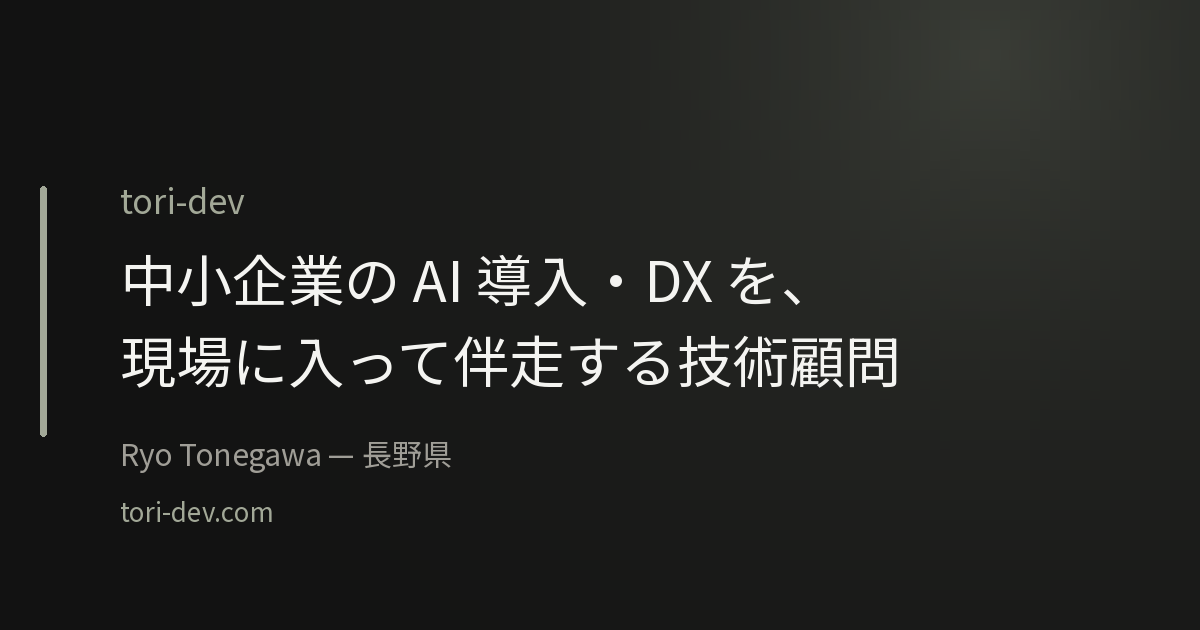
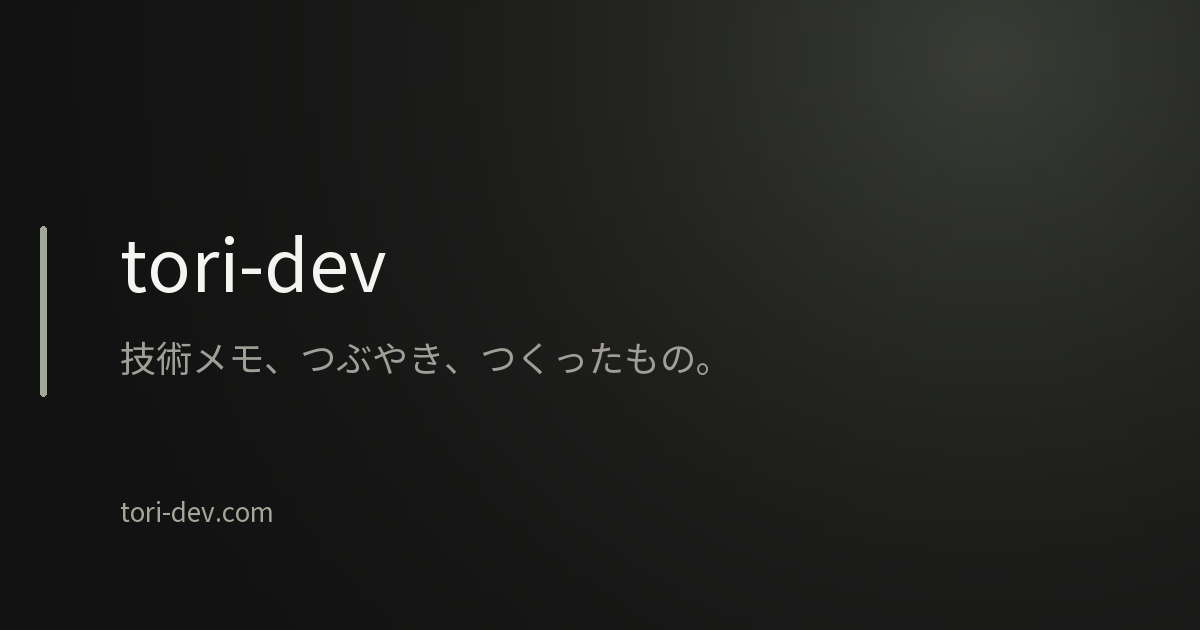
fix: レビュー指摘を反映し記事・OG画像・llms.txt からも営業文言と居住地を外す
- 記事末尾の著者欄から居住地を外し、リンクを About / Contact に
- 既定 OG 画像（トップの共有カード）を氏名・居住地・営業コピーなしで再生成
- llms.txt のサイト説明を個人サイト向けに更新
- About の連絡リンク文言を「連絡フォーム」にし、見出しとパンくずの表記を他ページと揃える
- 使われなくなった advisoryCtaLabel / advisoryPath を削除

diff --git a/pages/posts/[...slug].vue b/pages/posts/[...slug].vue
@@ -89,10 +89,10 @@
                 <aside class="mt-16 rounded-lg border border-gray-200 p-5 dark:border-[#333333] dark:bg-[#1a1a1a]">
                     <p class="text-xs uppercase tracking-wider text-gray-500 dark:text-gray-400">この記事を書いた人</p>
                     <p class="mt-2 font-display text-lg font-semibold text-gray-900 dark:text-white">{{ authorName }}</p>
-                    <p class="mt-1 text-sm text-gray-600 dark:text-gray-300">{{ authorJobTitle }}（{{ authorArea }}）</p>
+                    <p class="mt-1 text-sm text-gray-600 dark:text-gray-300">{{ authorJobTitle }}</p>
                     <div class="mt-4 flex flex-wrap gap-4 text-sm">
-                        <NuxtLink to="/about" class="text-[#A2A897] hover:underline">プロフィール</NuxtLink>
-                        <NuxtLink to="/contact" class="text-[#A2A897] hover:underline">ご相談・お問い合わせ</NuxtLink>
+                        <NuxtLink to="/about" class="text-[#A2A897] hover:underline">About</NuxtLink>
+                        <NuxtLink to="/contact" class="text-[#A2A897] hover:underline">Contact</NuxtLink>
                     </div>
                 </aside>
 
@@ -168,7 +168,7 @@
 
 <script setup>
 import { useFormatDate } from '~/composables/useFormatDate'
-import { authorName, authorJobTitle, authorArea } from '~/siteConfig'
+import { authorName, authorJobTitle } from '~/siteConfig'
 
 const route = useRoute()
 const { formatDate } = useFormatDate()

diff --git a/pages/about.vue b/pages/about.vue
@@ -27,9 +27,9 @@
         </section>
 
         <section class="mt-12">
-            <h2 class="font-display text-lg font-semibold text-gray-900 dark:text-white">Contact</h2>
+            <h2 class="font-display text-lg font-semibold text-gray-900 dark:text-white">連絡</h2>
             <p class="mt-2 text-sm text-gray-600 dark:text-gray-300">
-                連絡は<NuxtLink to="/contact" class="text-[#A2A897] hover:underline">こちら</NuxtLink>から。
+                <NuxtLink to="/contact" class="text-[#A2A897] hover:underline">連絡フォーム</NuxtLink>からどうぞ。
             </p>
         </section>
     </article>
@@ -67,7 +67,7 @@ const { profilePageJsonLd, breadcrumbJsonLd, injectJsonLd } = useStructuredData(
 injectJsonLd(profilePageJsonLd())
 injectJsonLd(
     breadcrumbJsonLd([
-        { name: 'Home', path: '/' },
+        { name: 'ホーム', path: '/' },
         { name: 'About', path: '/about' },
     ])
 )

diff --git a/siteConfig.ts b/siteConfig.ts
@@ -13,9 +13,6 @@ export const siteConfig = {
   lang: 'ja',
   locale: 'ja_JP',
   welcomeMessage: "Welcome to tori-dev.",
-  // 顧問契約 CTA（リード獲得の主導線）
-  advisoryCtaLabel: "顧問契約のご相談",
-  advisoryPath: "/service/advisory",
 };
 
 // 外部プロフィール。JSON-LD の Person.sameAs とフッターの rel="me" リンクに使う。

diff --git a/scripts/build-og-images.py b/scripts/build-og-images.py
@@ -210,19 +210,14 @@ def render(title: str, category: str, date: str, path: str) -> Image.Image:
 
 def render_default() -> Image.Image:
     """サイト共通の既定 OG 画像(public/og-default.png)。
-    署名は英字表記のみ（漢字氏名は公開しない方針）。"""
+    トップの共有カードにもなるので、氏名・居住地・営業コピーは載せない（個人サイト方針）。"""
     seed = seed_of("/")
     img = gradient_layer(seed)
     d = ImageDraw.Draw(img)
     margin = 80
-    d.rounded_rectangle([margin - 40, 186, margin - 34, 436], radius=3, fill=ACCENT)
-    d.text((margin + 40, 180), "tori-dev", font=load_font(34), fill=ACCENT)
-    title_font = load_font(56)
-    y = 246
-    for line in ("中小企業の AI 導入・DX を、", "現場に入って伴走する技術顧問"):
-        d.text((margin + 40, y), line, font=title_font, fill=FG)
-        y += int(56 * 1.45)
-    d.text((margin + 40, 436), "Ryo Tonegawa — 長野県", font=load_font(30), fill=MUTED)
+    d.rounded_rectangle([margin - 40, 226, margin - 34, 396], radius=3, fill=ACCENT)
+    d.text((margin + 40, 220), "tori-dev", font=load_font(72), fill=FG)
+    d.text((margin + 40, 336), "技術メモ、つぶやき、つくったもの。", font=load_font(36), fill=MUTED)
     d.text((margin + 40, 496), "tori-dev.com", font=load_font(26), fill=ACCENT)
     return img
 
